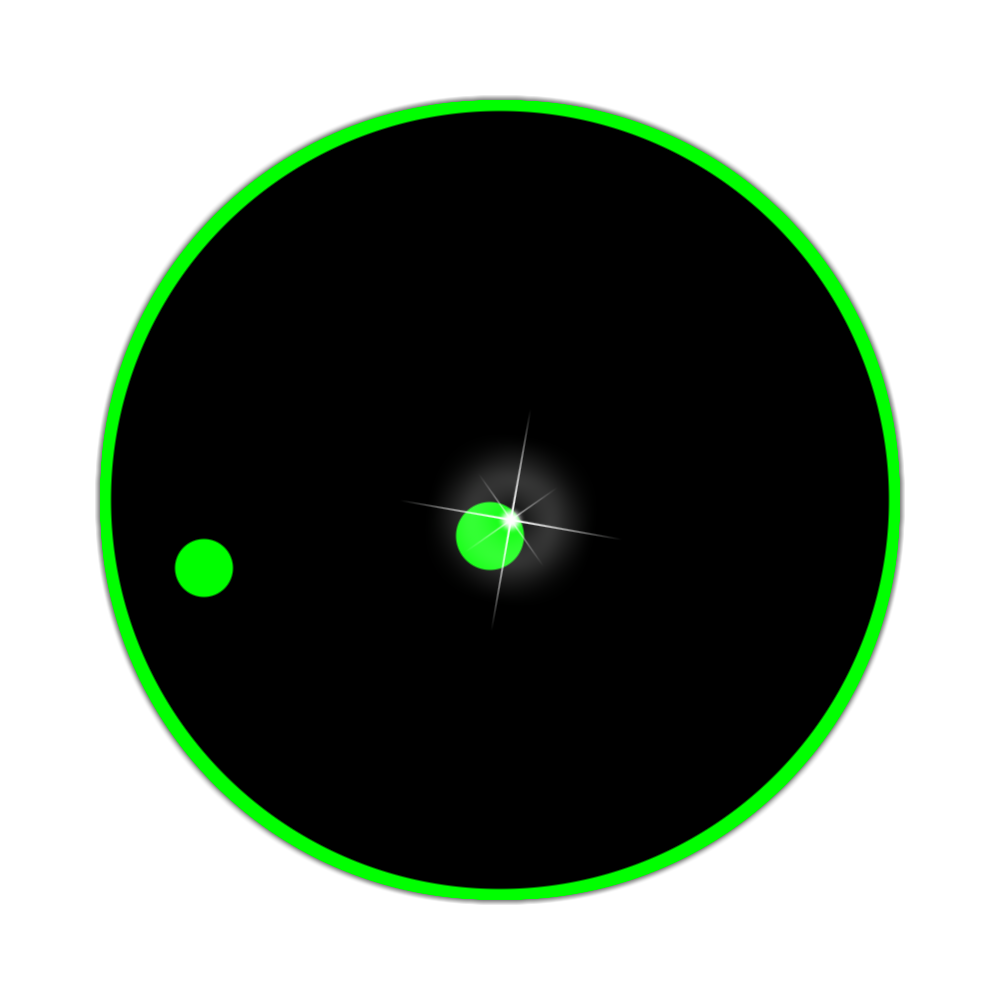
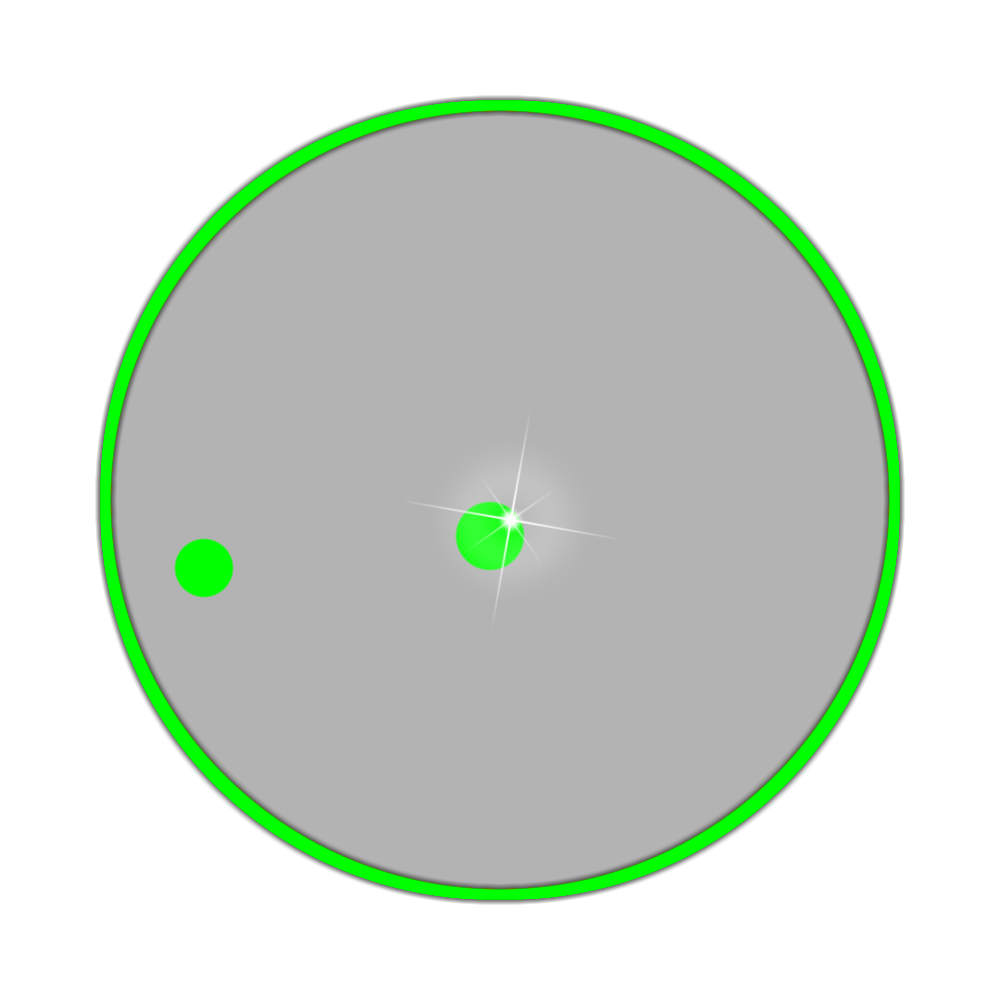
○のデザインを調整。

diff --git a/src/js/script.js b/src/js/script.js
@@ -58,14 +58,14 @@ const slide = [];
 let particles = [];
 let lines = [];
 let bgColor = {
-  r: 21,
-  g: 43,
-  b: 25
+  r: 5,
+  g: 52,
+  b: 55
 }// end bgColor
 let afterColor = {
-  r: 21,
-  g: 43,
-  b: 25
+  r: bgColor.r,
+  g: bgColor.g,
+  b: bgColor.b
 }// end afterColor
 let index = 0;
 
